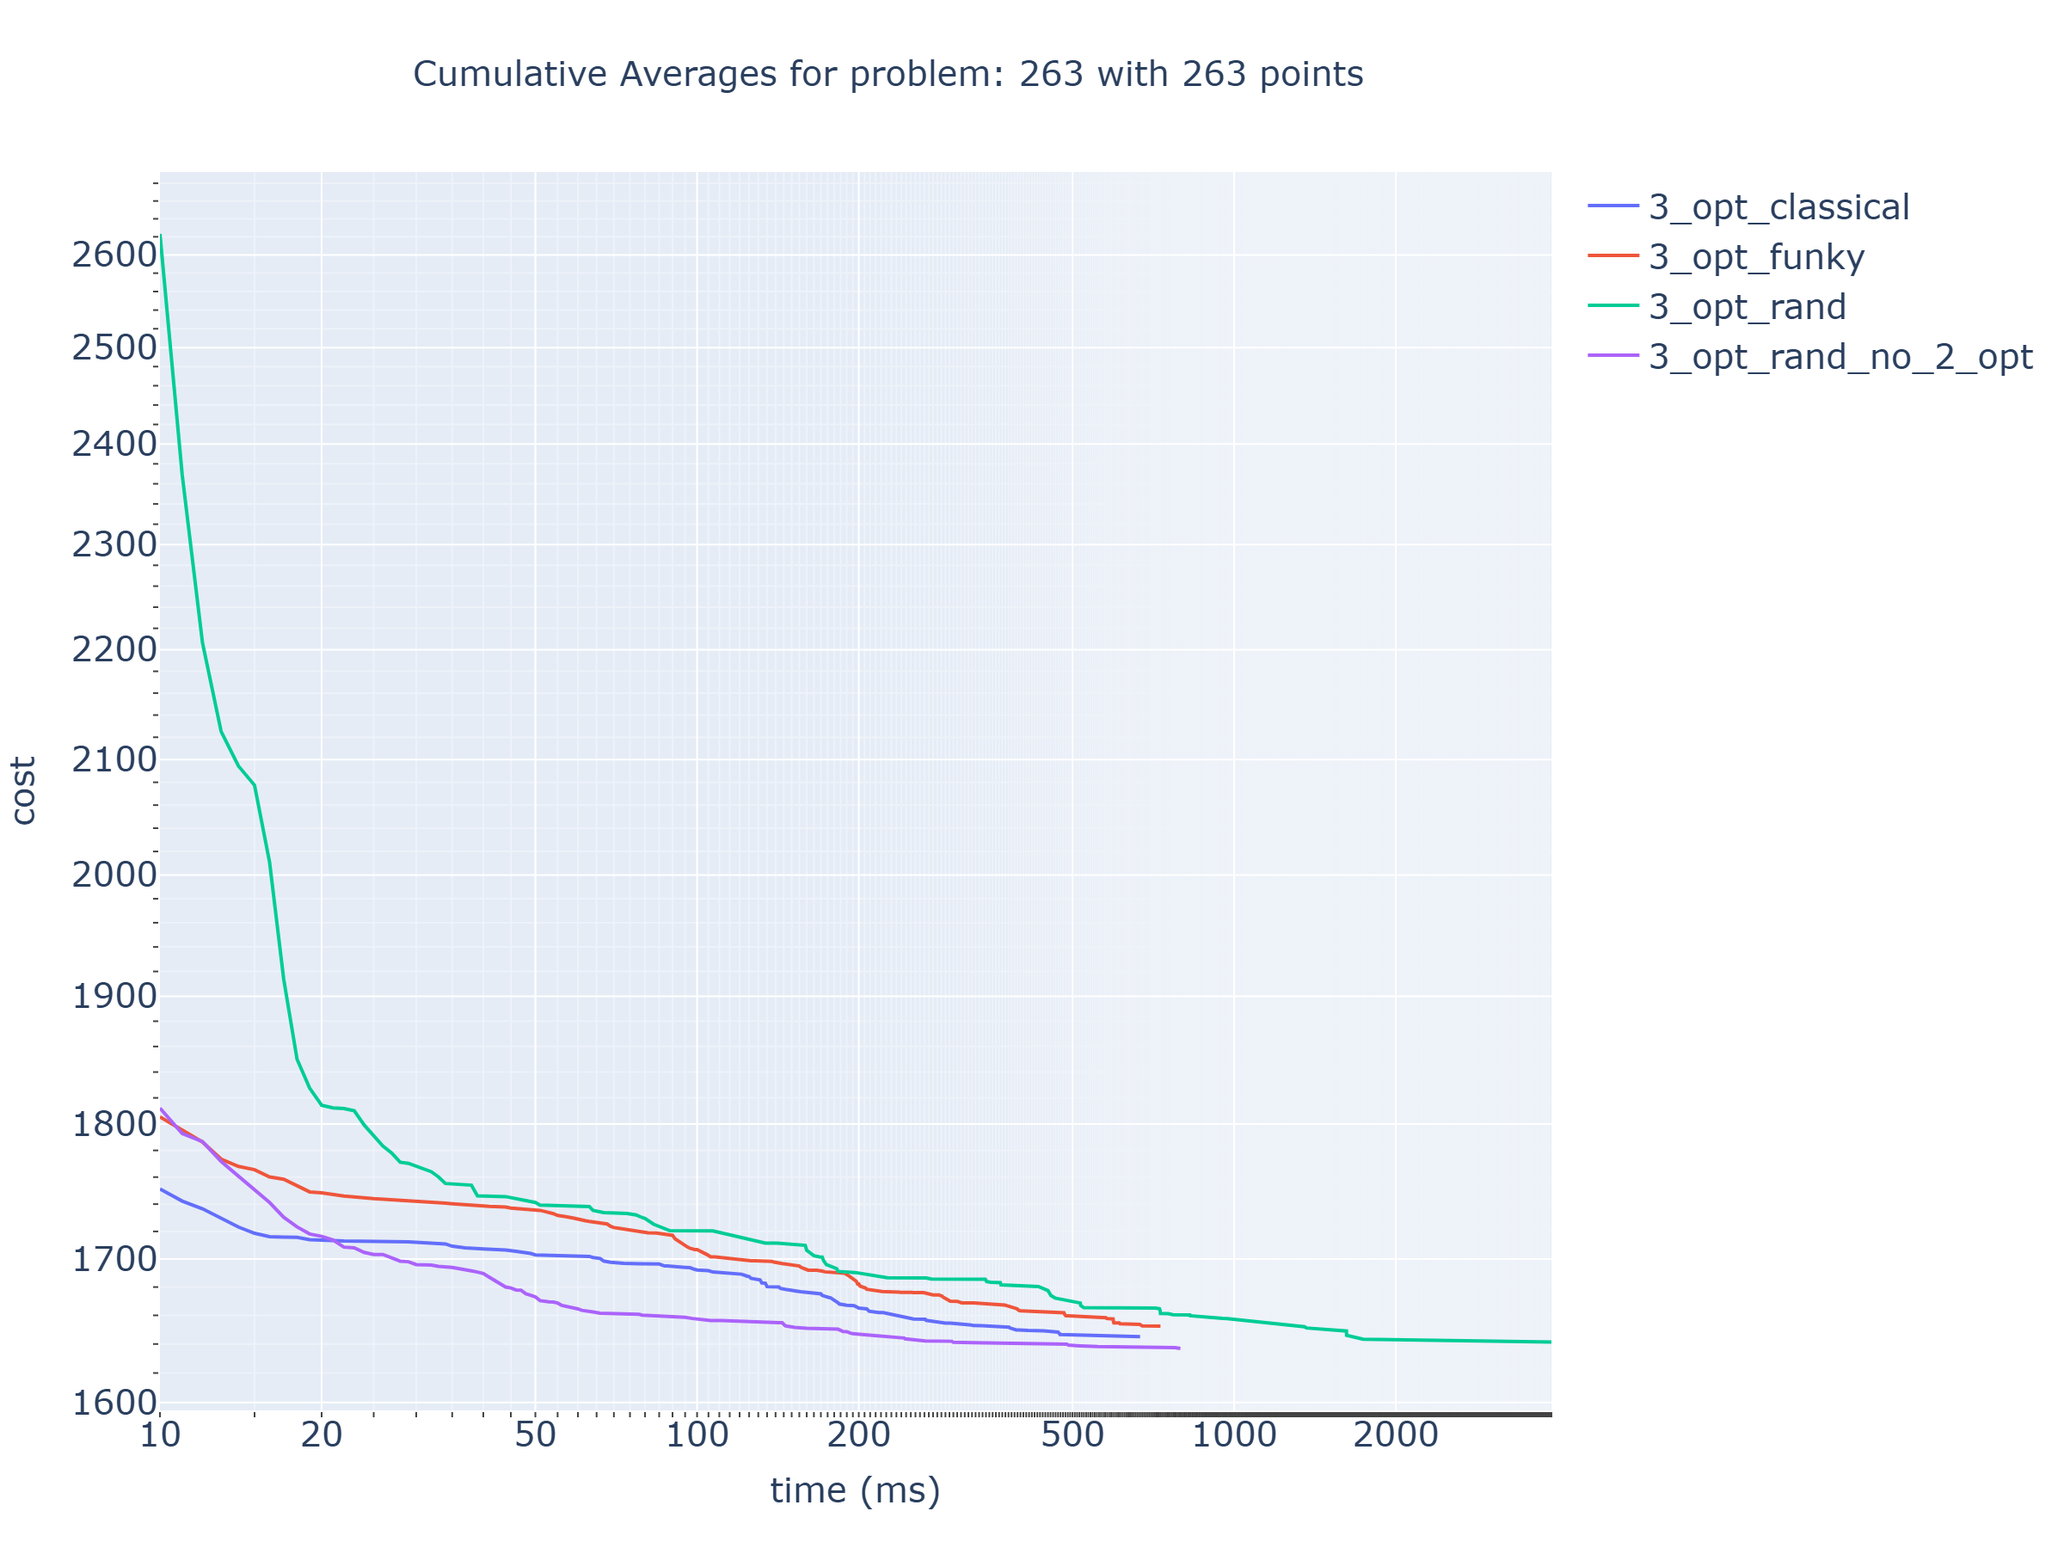
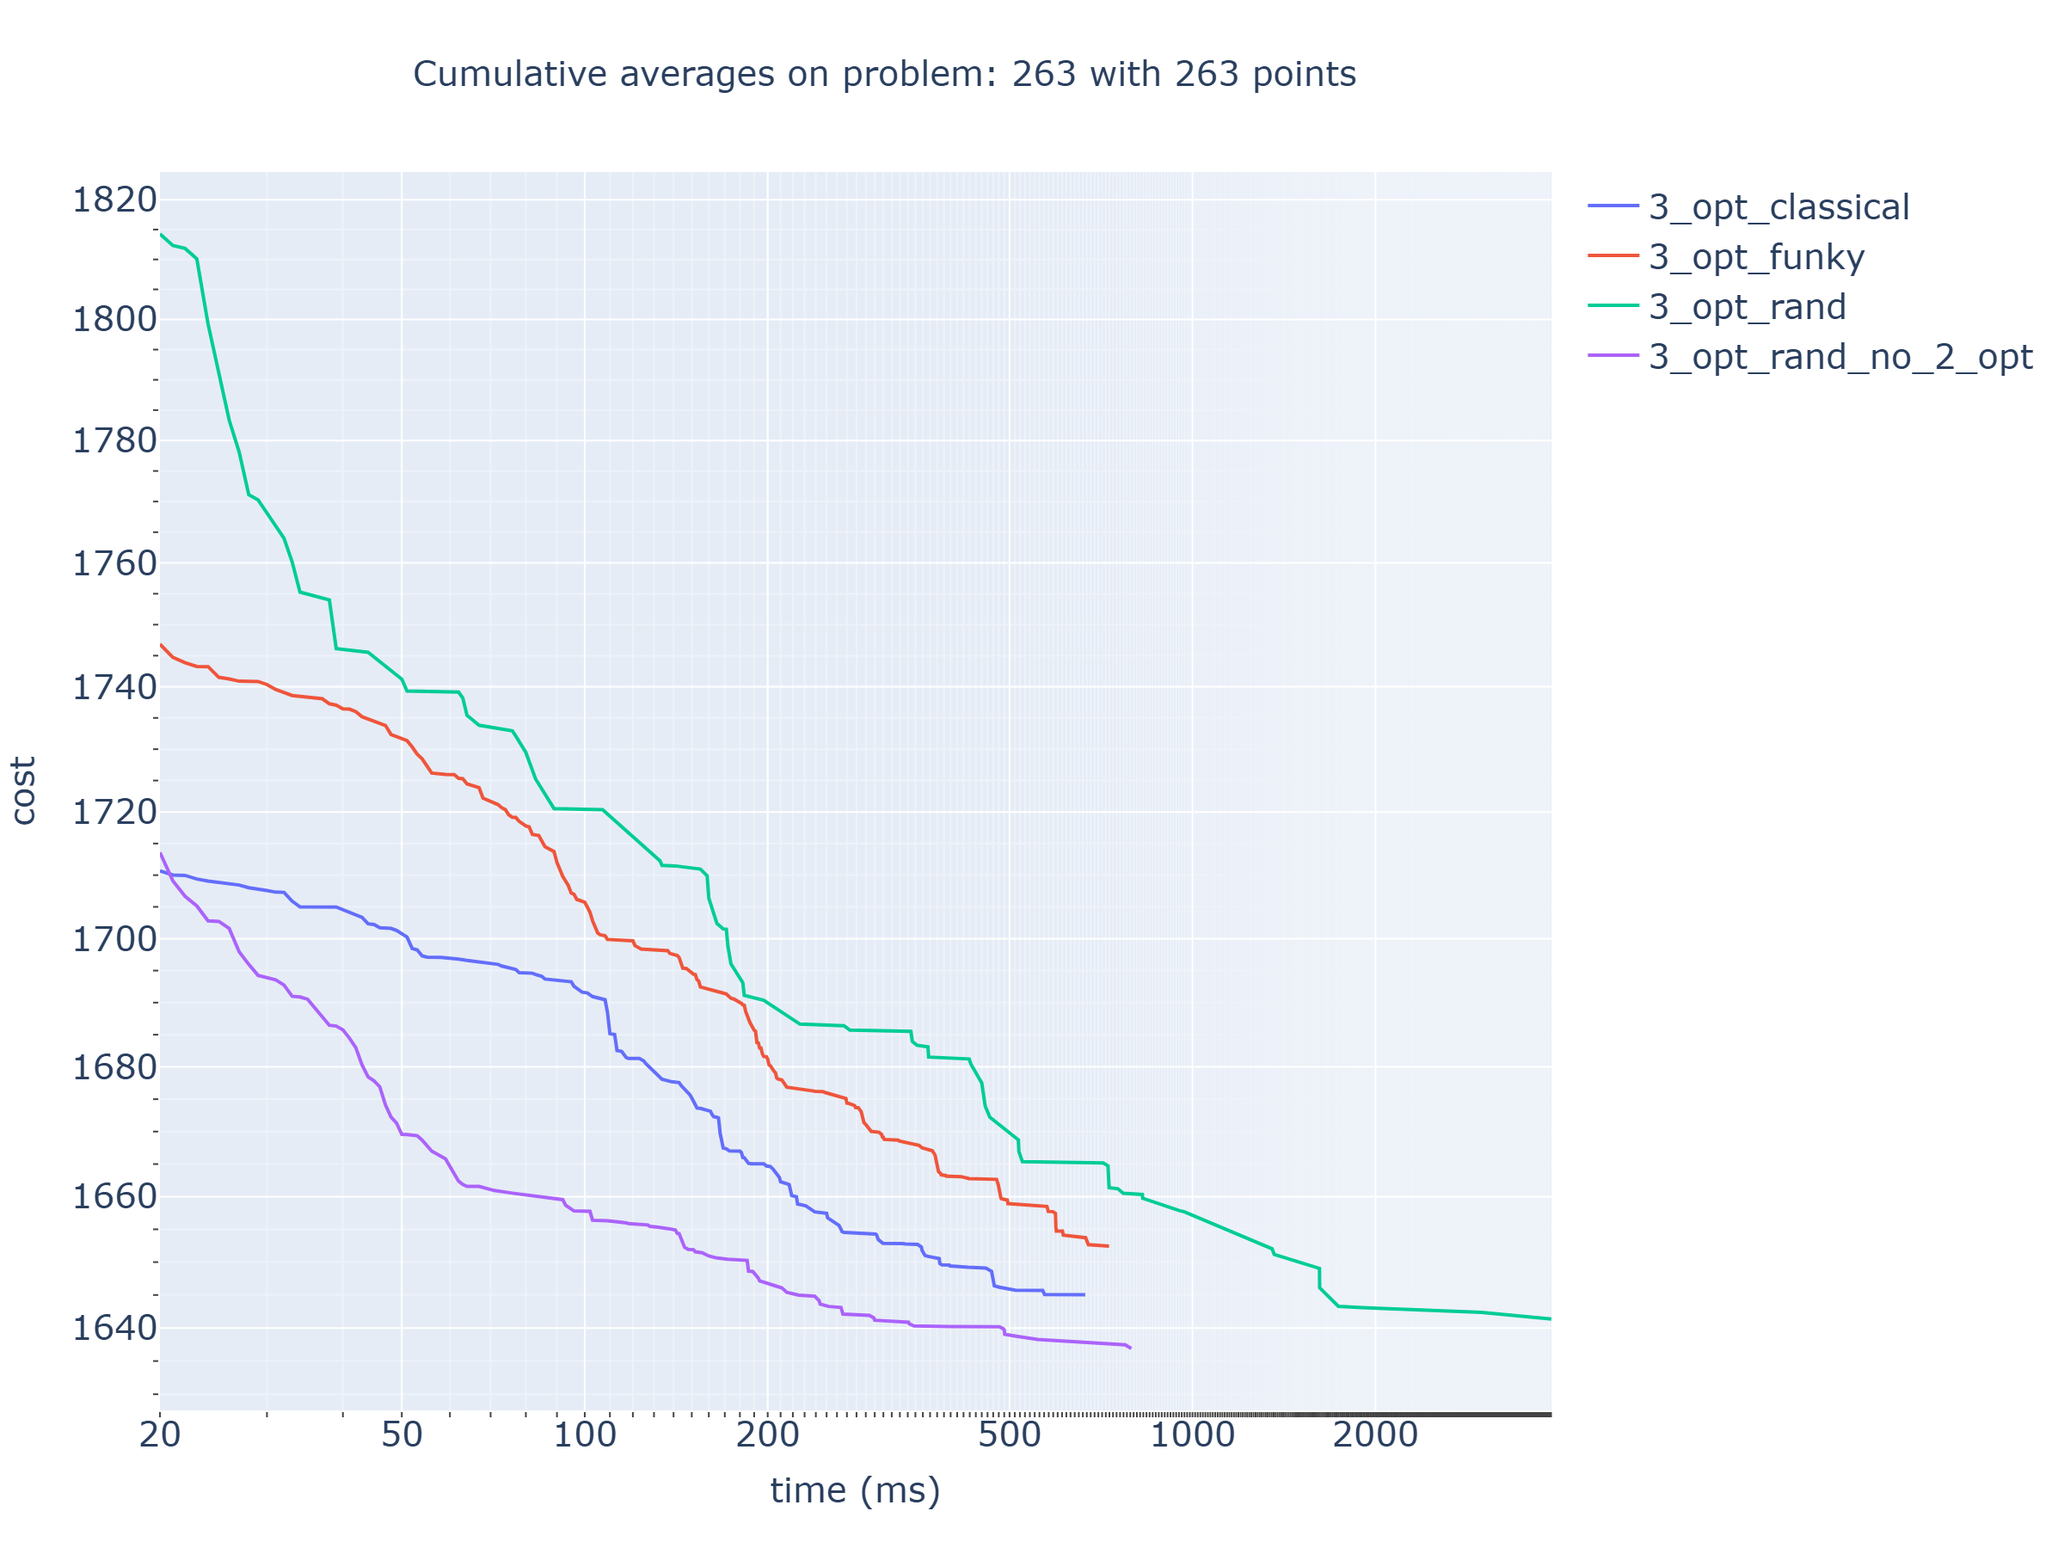
Added plotting of min found solution across all runs over time.

diff --git a/commands/3_opt/plot_history.py b/commands/3_opt/plot_history.py
@@ -1,7 +1,8 @@
 """
 python plot_history.py <problem_name> <num_points> [<mode>] [<run_start>] [<run_end>] [<window_timeframe>] [<start_time>] [--no-cache|-nc] [--loglog|-ll]
 
-python commands/3_opt/plot_history.py 263 263 shp 0 1000 1 10 -nc -ll
+python commands/3_opt/plot_history.py 263 263 shp 0 1000 1 20 -ll
+python commands/3_opt/plot_history.py 263 263 shp 0 1000 1 20 -nc -ll
 """
 
 import sys
@@ -16,8 +17,8 @@ import struct
 import plotly.graph_objects as go
 
 ALGOS = [
+    # '3_opt_best_cut',  # remove from plot since too long too large cost
     '3_opt_classical',
-    # '3_opt_best_cut',
     '3_opt_funky',
     '3_opt_rand',
     '3_opt_rand_no_2_opt',
@@ -32,28 +33,39 @@ TIME_DTYPE = 'unsigned long long'
 
 
 def main():
+    args = parse_args()
+    conf = build_conf(args)
+    setup_paths(args['prob_name'])
+
+    cum_avg_plt, all_runs_plt = setup_plots(args, conf)
+    for algo in ALGOS:
+        cum_avgs, all_runs = get_or_compute_results(algo, args, conf)
+        add_cum_avg_to_plot(cum_avg_plt, cum_avgs, loglog=args['loglog'], label=algo)
+        add_to_all_runs_plot(all_runs_plt, all_runs, loglog=args['loglog'], label=algo)
+        gc.collect()
+    cum_avg_plt['plot_or_save']()
+    all_runs_plt['plot_or_save']()
+
+def parse_args():
     flag_args = ['--no-cache-res', '-ncr', '--no-cache', '-nc', '--loglog', '-ll']
     filtered_argv = [arg for arg in sys.argv if arg.lower() not in flag_args]
-    no_cache_res_only = any(
-        arg.lower() in ['--no-cache-res', '-ncr'] for arg in sys.argv
-    )
-    no_cache = any(
-        arg.lower() in ['--no-cache', '-nc'] for arg in sys.argv
-    )
-    loglog = any(
-        arg.lower() in ['--loglog', '-ll'] for arg in sys.argv
-    )
-    prob_name = filtered_argv[1] if len(filtered_argv) > 1 else '263'
-    num_points = int(filtered_argv[2]) if len(filtered_argv) > 2 else 263
-    mode = filtered_argv[3] if len(filtered_argv) > 3 else 'shp'
-    run_start = int(filtered_argv[4]) if len(filtered_argv) > 4 else 0
-    run_end = int(filtered_argv[5]) if len(filtered_argv) > 5 else float('inf')
-    window_timeframe = float(filtered_argv[6]) if len(filtered_argv) > 6 else 1
-    start_time = float(filtered_argv[7]) if len(filtered_argv) > 7 else 0
+    return {
+        'no_cache_res_only': any(arg.lower() in ['--no-cache-res', '-ncr'] for arg in sys.argv),
+        'no_cache': any(arg.lower() in ['--no-cache', '-nc'] for arg in sys.argv),
+        'loglog': any(arg.lower() in ['--loglog', '-ll'] for arg in sys.argv),
+        'prob_name': filtered_argv[1] if len(filtered_argv) > 1 else '263',
+        'num_points': int(filtered_argv[2]) if len(filtered_argv) > 2 else 263,
+        'mode': filtered_argv[3] if len(filtered_argv) > 3 else 'shp',
+        'run_start': int(filtered_argv[4]) if len(filtered_argv) > 4 else 0,
+        'run_end': int(filtered_argv[5]) if len(filtered_argv) > 5 else float('inf'),
+        'window_timeframe': float(filtered_argv[6]) if len(filtered_argv) > 6 else 1,
+        'start_time': float(filtered_argv[7]) if len(filtered_argv) > 7 else 0,
+    }
 
-    conf = {
-        'run_start': run_start,
-        'run_end': run_end,
+def build_conf(args):
+    return {
+        'run_start': args['run_start'],
+        'run_end': args['run_end'],
         'cost_dtype_size': dtype_desc(COST_DTYPE)[0],
         'cost_dtype_format': dtype_desc(COST_DTYPE)[1],
         'cost_np_dtype': dtype_desc(COST_DTYPE)[2],
@@ -61,53 +73,69 @@ def main():
         'time_dtype_format': dtype_desc(TIME_DTYPE)[1],
         'time_np_dtype': dtype_desc(TIME_DTYPE)[2],
         'do_select_min': True,
-        'window_timeframe': window_timeframe,
-        'num_points': num_points,
+        'window_timeframe': args['window_timeframe'],
+        'num_points': args['num_points'],
         'flatten': True,
-        'start_time': start_time,
+        'start_time': args['start_time'],
     }
 
+def setup_paths(prob_name):
     global PATH_ANALYSIS, PATH_CACHED
     PATH_ANALYSIS = os.path.join(PATH_ANALYSIS, prob_name)
     PATH_CACHED = os.path.join(PATH_CACHED, prob_name)
-    path_plots = os.path.join(PATH_ANALYSIS, 'plots')
-    os.makedirs(path_plots, exist_ok=True)
+    os.makedirs(os.path.join(PATH_ANALYSIS, 'plots'), exist_ok=True)
     os.makedirs(PATH_CACHED, exist_ok=True)
 
-    plot = create_cum_avg_plot(
-        save_path=os.path.join(path_plots, f'cum_avg_{mode}_{num_points}.png'),
-        title=f'Cumulative Averages for problem: '
-              f'{prob_name} with {num_points} points',
-        xlabel='time (ms)',
-        ylabel='cost',
-        fontsize=20,
+def setup_plots(args, conf):
+    path_plots = os.path.join(PATH_ANALYSIS, 'plots')
+    shared_plt_conf = { 'xlabel': 'time (ms)', 'ylabel': 'cost', 'fontsize': 20 }
+    cum_avg_plt = create_cum_avg_plot(
+        save_path=os.path.join(path_plots, f'cum_avg_{args["mode"]}_{args["num_points"]}.png'),
+        title=f'Cumulative averages on problem: {args["prob_name"]} with {args["num_points"]} points',
+        **shared_plt_conf
     )
-    for algo in ALGOS:
-        cache_fname = get_cum_avg_cache_fname(prob_name, num_points, mode, algo)
-        path_cached = os.path.realpath(os.path.join(PATH_CACHED, cache_fname))
-        if not no_cache and not no_cache_res_only and os.path.isfile(path_cached):
-            cum_avgs = load_preprocessed(path_cached)
-            print(f'\nWARNING: using cached results from:\n{path_cached}\n')
-        else:
-            histories = fetch_algo_histories(
-                PATH_CACHED, PATH_RES,
-                algo, prob_name, mode, no_cache, conf
-            )[1]
-            cum_avgs = compute_cum_avgs(
-                histories, window_timeframe, time_incr=start_time
-            )
-            store_preprocessed(cum_avgs, path_cached)  # needs to be flattened
-            print(f'Cached cumulative avgs to: {path_cached}')
+    all_runs_plt = create_all_runs_plot(
+        save_path=os.path.join(path_plots, f'all_runs_plot_{args["mode"]}_{args["num_points"]}.png'),
+        title=f'All runs on problem: {args["prob_name"]} with {args["num_points"]} points',
+        **shared_plt_conf
+    )
+    return cum_avg_plt, all_runs_plt
 
-        # print(f'Algo: {algo}, num points: {num_points}')
-        # print(f'\n'.join([f'{t} ms: {v}' for t, v in zip(cum_avgs[0], cum_avgs[1])]))
-        add_cum_avg_to_plot(plot, cum_avgs, loglog=loglog, label=algo)
+def get_or_compute_results(algo, args, conf):
+    ca_cache_fname = get_cum_avg_cache_fname(args['prob_name'], args['num_points'], args['mode'], algo, conf)
+    ca_path_cached = os.path.realpath(os.path.join(PATH_CACHED, ca_cache_fname))
+    ar_cache_fname = get_all_runs_cache_fname(args['prob_name'], args['num_points'], args['mode'], algo, conf)
+    ar_path_cached = os.path.realpath(os.path.join(PATH_CACHED, ar_cache_fname))
+    has_cache = os.path.isfile(ca_path_cached) and os.path.isfile(ar_path_cached)
+    if not args['no_cache'] and not args['no_cache_res_only'] and has_cache:
+        cum_avgs = load_preprocessed(ca_path_cached)
+        print(f'\nWARNING: using cached results from:\n{ca_path_cached}\n')
+        all_runs = load_preprocessed(ar_path_cached)
+    else:
+        histories = fetch_algo_histories(
+            PATH_CACHED, PATH_RES,
+            algo, args['prob_name'], args['mode'], args['no_cache'], conf
+        )[1]
+        all_runs = get_all_runs(histories, args['window_timeframe'], args['start_time'])
+        store_preprocessed(all_runs, ar_path_cached)
+        print(f'Cached all runs data to: {ar_path_cached}')
         gc.collect()
-    plot['plot_or_save']()
+        cum_avgs = compute_cum_avgs(histories, args['window_timeframe'], args['start_time'])
+        store_preprocessed(cum_avgs, ca_path_cached)
+        print(f'Cached cumulative avgs to: {ca_path_cached}')
+        gc.collect()
+    return cum_avgs, all_runs
 
-def get_cum_avg_cache_fname(prob_name, num_pts, mode, algo):
+def get_cum_avg_cache_fname(prob_name, num_pts, mode, algo, conf):
     return shorten_file_name(
         f'cum_avg_{prob_name}_{mode}_{num_pts}_{algo}'
+        + stringify_args('', **conf)
+    )
+
+def get_all_runs_cache_fname(prob_name, num_pts, mode, algo, conf):
+    return shorten_file_name(
+        f'all_runs_{prob_name}_{mode}_{num_pts}_{algo}'
+        + stringify_args('', **conf)
     )
 
 def shorten_file_name(file_name):
@@ -118,28 +146,30 @@ def shorten_file_name(file_name):
     hashed = hashlib.sha256(file_name.encode()).digest()
     return hashed[2 : 2 + max_chars // 2].hex()
 
-def compute_cum_avgs(histories, calc_window=None, time_incr=0) -> tuple[list, list]:
+def compute_cum_avgs(
+    histories,
+    calc_window_size=None,
+    time_incr=0
+) -> tuple[list, list]:
     def time_at(run_times, i):
         time = run_times[i] - run_times[0]
-        if calc_window is not None:
-            time = math.floor(time / calc_window)
+        if calc_window_size is not None:
+            time = math.floor(time / calc_window_size)
         time += time_incr
         return time
 
     # cumulative_avgs[time] = [ cost, freq ]
-    max_time = 0
-    cumulative_avgs_times = set()
+    cum_avgs_times = set()
     for run_idx, run_costs, run_times in histories:
         for i, cost in enumerate(run_costs):
             time = time_at(run_times, i)
-            cumulative_avgs_times.add(time)
-            max_time = max(max_time, time)
+            cum_avgs_times.add(time)
 
-    cumulative_avgs_times = sorted(cumulative_avgs_times)
-    cumulative_avgs_vals = [ [0, 0] for _ in range(len(cumulative_avgs_times)) ]
+    cum_avgs_times = sorted(cum_avgs_times)
+    cumulative_avgs_vals = [ [0, 0] for _ in range(len(cum_avgs_times)) ]
     for run_idx, run_costs, run_times in histories:
         cur_min_cost = float('inf')
-        cum_avg_time_iter = iter(cumulative_avgs_times)
+        cum_avg_time_iter = iter(cum_avgs_times)
         cum_avg_val_iter = iter(cumulative_avgs_vals)
         cum_avg_time = next(cum_avg_time_iter)
         cum_avg_val = next(cum_avg_val_iter)
@@ -179,7 +209,7 @@ def compute_cum_avgs(histories, calc_window=None, time_incr=0) -> tuple[list, li
         for val in cumulative_avgs_vals
     ]
 
-    return cumulative_avgs_times, cumulative_avgs_vals
+    return cum_avgs_times, cumulative_avgs_vals
 
 def fetch_algo_histories(
     cache_dir_path,
@@ -521,7 +551,7 @@ def create_cum_avg_plot(
         nonlocal save_path
         if save_path is not None:
             fig.write_image(save_path, scale=2)
-            print(f'Saved cum avg plot to:\n{os.path.realpath(save_path)}')
+            print(f'Saved plot to:\n{os.path.realpath(save_path)}')
         else:
             fig.show()
 
@@ -535,7 +565,7 @@ def add_cum_avg_to_plot(
     cum_avgs: tuple[list, list],
     loglog: bool = False,
     label: str = '',
-    smooth_window: int = None  # new parameter for smoothing
+    smooth_window: int = None
 ):
     times, avgs = cum_avgs
     if not times:
@@ -544,7 +574,6 @@ def add_cum_avg_to_plot(
     print(f'Min time: {times[0]}, max time: {times[-1]}')
     print(f'Max avg: {avgs[0]}, min avg: {avgs[-1]}')
 
-    # Smoothing using moving average if requested
     if smooth_window and smooth_window > 1 and len(avgs) >= smooth_window:
         avgs = np.convolve(avgs, np.ones(smooth_window)/smooth_window, mode='valid')
         times = times[:len(avgs)]
@@ -556,14 +585,15 @@ def add_cum_avg_to_plot(
         y=avgs,
         mode=mode,
         name=label,
-        line={'shape': 'linear'} if mode == 'lines' else None,  # use linear for smoothness
+        line={'shape': 'linear'} if mode == 'lines' else None,
     ))
     if loglog:
-        # Use powers of 10 for ticks, and optionally add midpoints
         min_tick = max(1, int(np.floor(np.log10(max(times[0], 1)))))
         max_tick = int(np.ceil(np.log10(times[-1])))
+        min_tick = min(plot.get('min_time', min_tick), min_tick)
+        max_tick = max(plot.get('max_time', max_tick), max_tick)
+        plot['min_time'], plot['max_time'] = min_tick, max_tick
         tickvals = [10**i for i in range(min_tick, max_tick+1)]
-        # Optionally add midpoints (e.g., 2, 5, etc.)
         midpoints = []
         for i in range(min_tick, max_tick+1):
             midpoints.extend([2*10**i, 5*10**i])
@@ -585,6 +615,91 @@ def add_cum_avg_to_plot(
     else:
         fig.update_xaxes(tickmode='auto', nticks=20)
         fig.update_yaxes(tickmode='auto', nticks=20)
+
+def create_all_runs_plot(*args, **kwargs):
+    return create_cum_avg_plot(*args, **kwargs)
+
+def add_to_all_runs_plot(
+    plot: dict[str, any],
+    all_runs: tuple[list, list],
+    loglog: bool = False,
+    label: str = '',
+    smooth_window: int = None
+):
+    times, avgs = all_runs
+    if not times:
+        print(f'WARNING: empty all runs data, nothing to plot.')
+        return
+    print(f'Min time: {times[0]}, max time: {times[-1]}')
+    print(f'Max cost: {avgs[0]}, min cost: {avgs[-1]}')
+
+    if smooth_window and smooth_window > 1 and len(avgs) >= smooth_window:
+        avgs = np.convolve(avgs, np.ones(smooth_window)/smooth_window, mode='valid')
+        times = times[:len(avgs)]
+
+    fig = plot['fig']
+    mode = 'lines' if len(times) >= 2 else 'markers'
+    fig.add_trace(go.Scatter(
+        x=times,
+        y=avgs,
+        mode=mode,
+        name=label,
+        line={'shape': 'linear'} if mode == 'lines' else None,
+    ))
+
+    nticks = 20
+    plot['min_time'] = min(plot.get('min_time', float('inf')), min(times))
+    plot['max_time'] = max(plot.get('max_time', 0), max(times))
+    tickvals = np.linspace(plot['min_time'], plot['max_time'], nticks, dtype=int)
+    ticktext = [_format_timepoint(int(v)) for v in tickvals]
+    fig.update_xaxes(
+        tickmode='array',
+        tickvals=tickvals,
+        ticktext=ticktext
+    )
+
+    if loglog:
+        fig.update_yaxes(type="log", tickmode='auto', nticks=10,
+                         minor=dict(ticks="outside", showgrid=True))
+    else:
+        fig.update_yaxes(tickmode='auto', nticks=20)
+
+def get_all_runs(
+    histories,
+    calc_window_size=None,
+    time_incr=0
+) -> tuple[list, list]:
+    start_time = None
+    def time_at(run_times, i):
+        nonlocal start_time
+        time = run_times[i] - start_time
+        if calc_window_size is not None:
+            time = math.floor(time / calc_window_size)
+        time += time_incr
+        return time
+
+    times, costs = [], []
+    for run_idx, run_costs, run_times in histories:
+        for i, cost in enumerate(run_costs):
+            if start_time is None:
+                start_time = run_times[0]
+            time = time_at(run_times, i)
+            times.append(time)
+            costs.append(min(costs[-1], cost) if costs else cost)
+    print(f'max time: {times[-1]}, min cost: {min(costs)}, max cost: {max(costs)}')
+    return times, costs
+
+def _format_timepoint(ms):
+    secs = ms // 1000
+    if secs == 0: return f'{ms} ms'
+    ms %= 1000
+    mins = secs // 60
+    if mins == 0: return f'{secs}.{ms} s'
+    secs %= 60
+    hours = mins // 60
+    if hours == 0: return f'{mins}:{secs}.{ms} m'
+    mins %= 60
+    return f'{hours}:{mins}:{secs}.{ms} h'
 
 
 if __name__ == "__main__":
